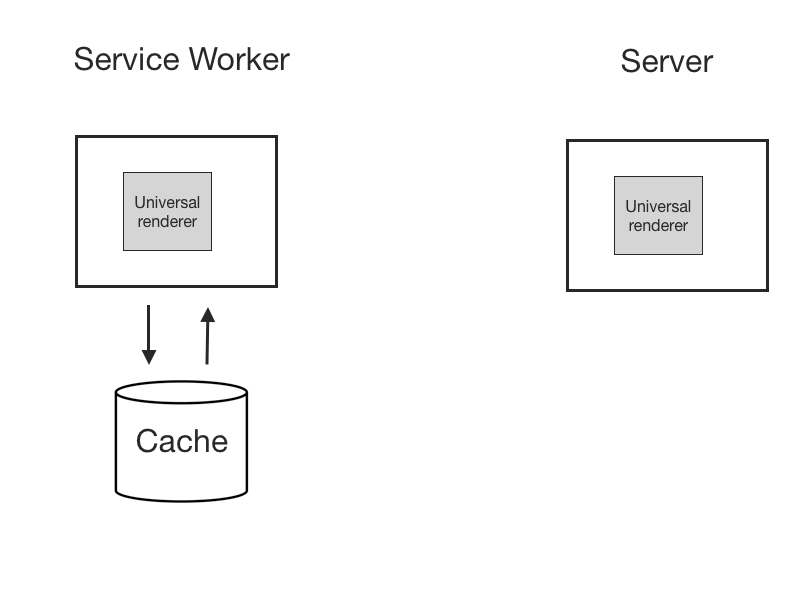
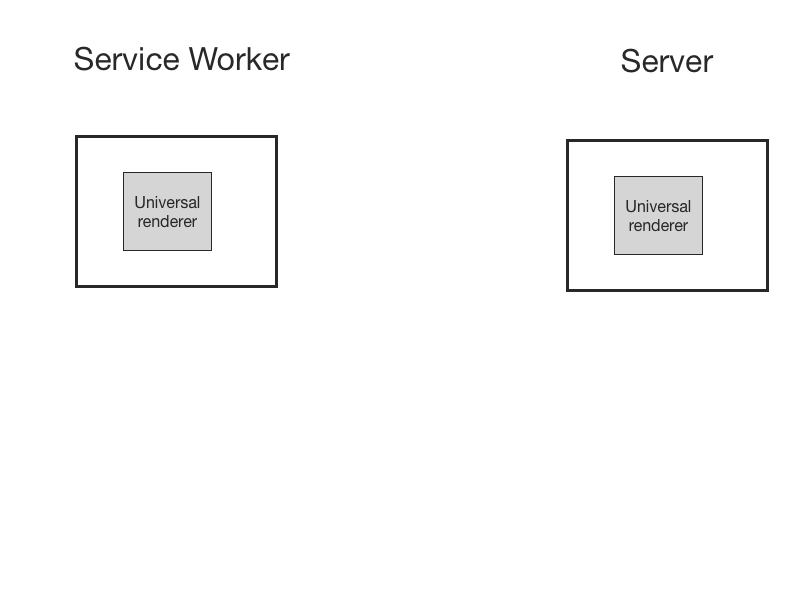
simplify diagrams

Changed region(s): [[0.125, 0.63, 0.3125, 0.84], [0.25, 0.51, 0.2812, 0.6], [0.1562, 0.51, 0.1875, 0.6]]

diff --git a/index.html b/index.html
@@ -965,7 +965,7 @@ registerPromiseWorker(msg => {
     </section>
 
     <section class="sources">
-      <h3 class="random-color">Thanks!</h3>
+      <h3>Thanks!</h3>
       <h4>nolanlawson.github.io/fronteers-2016</h4>
       <ul>
       <li>Sources</li>
